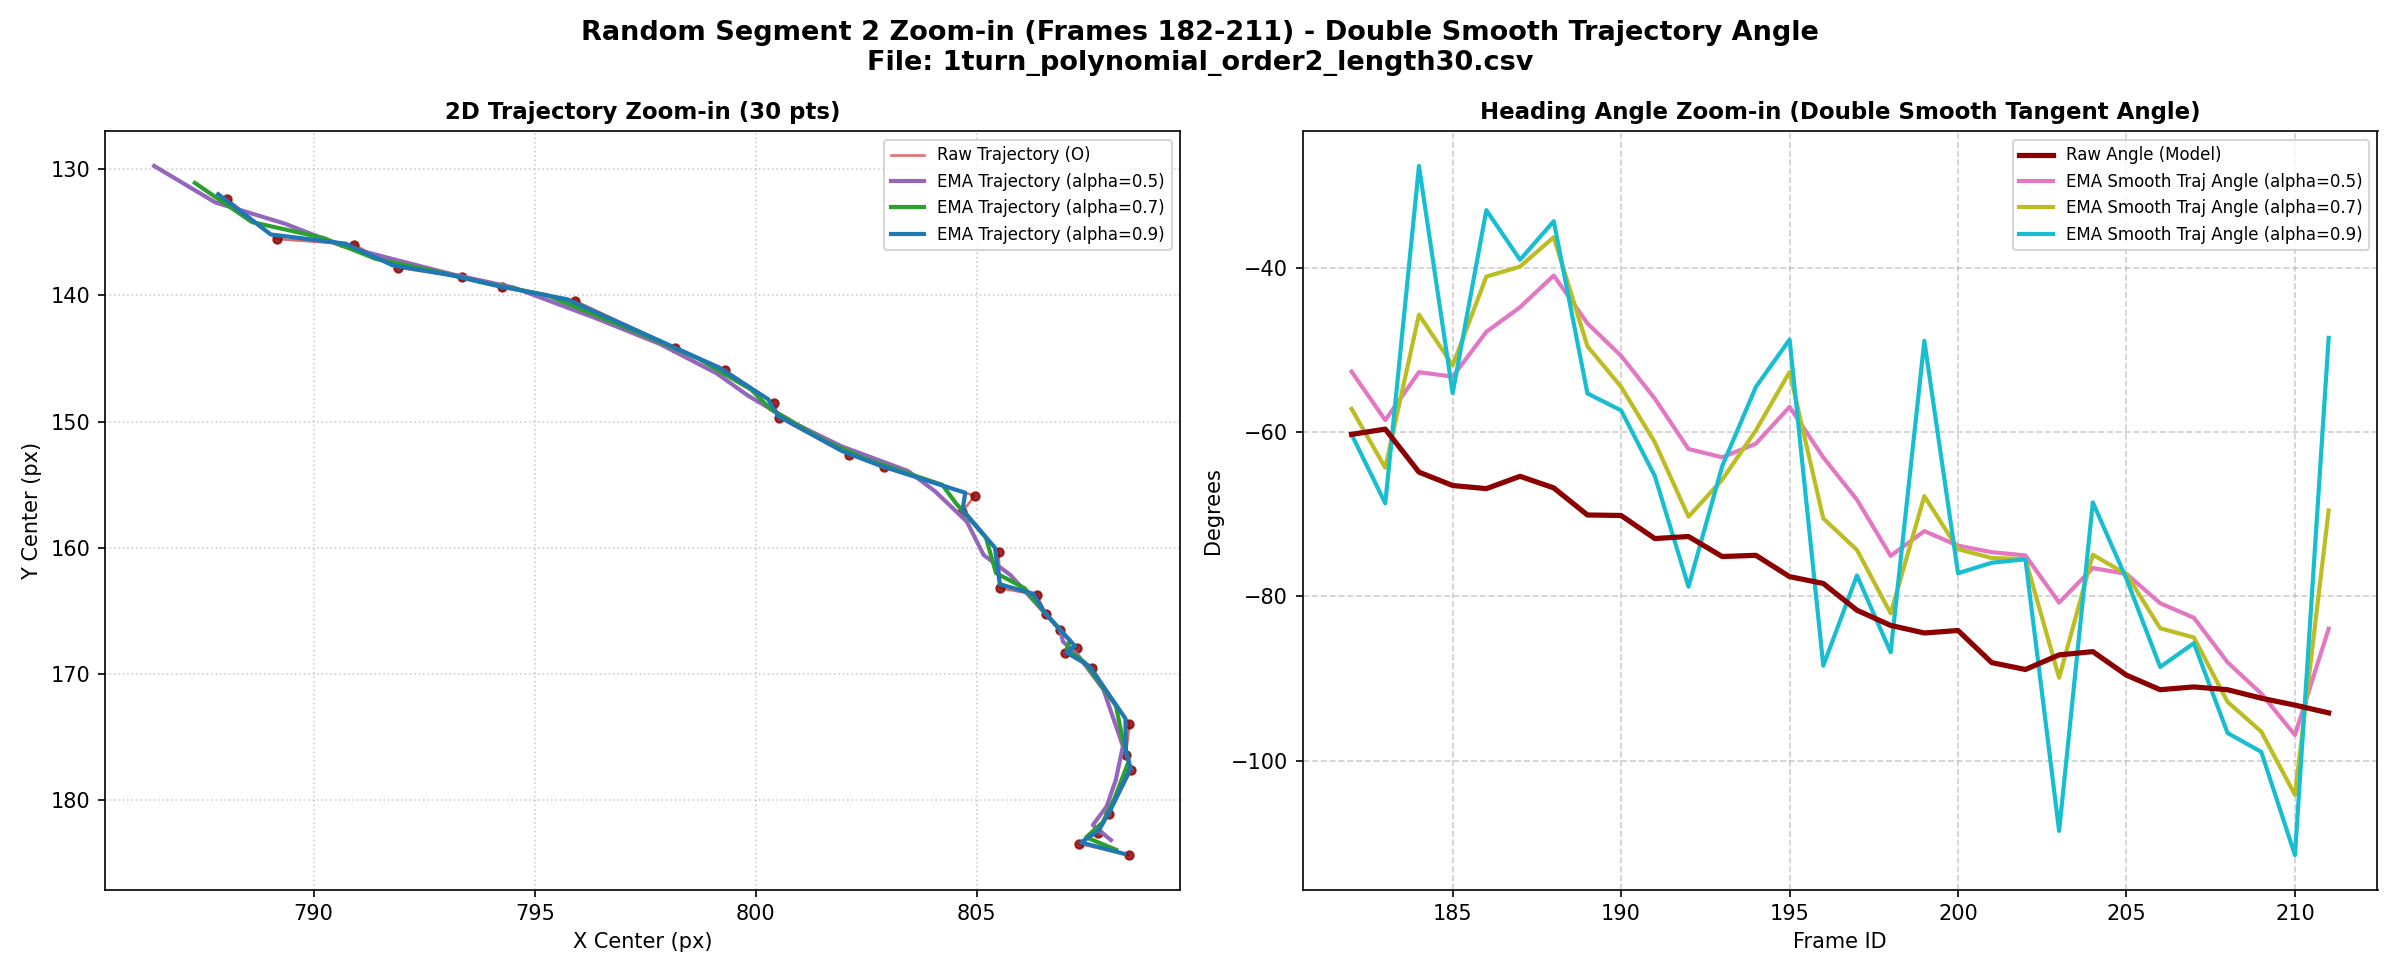
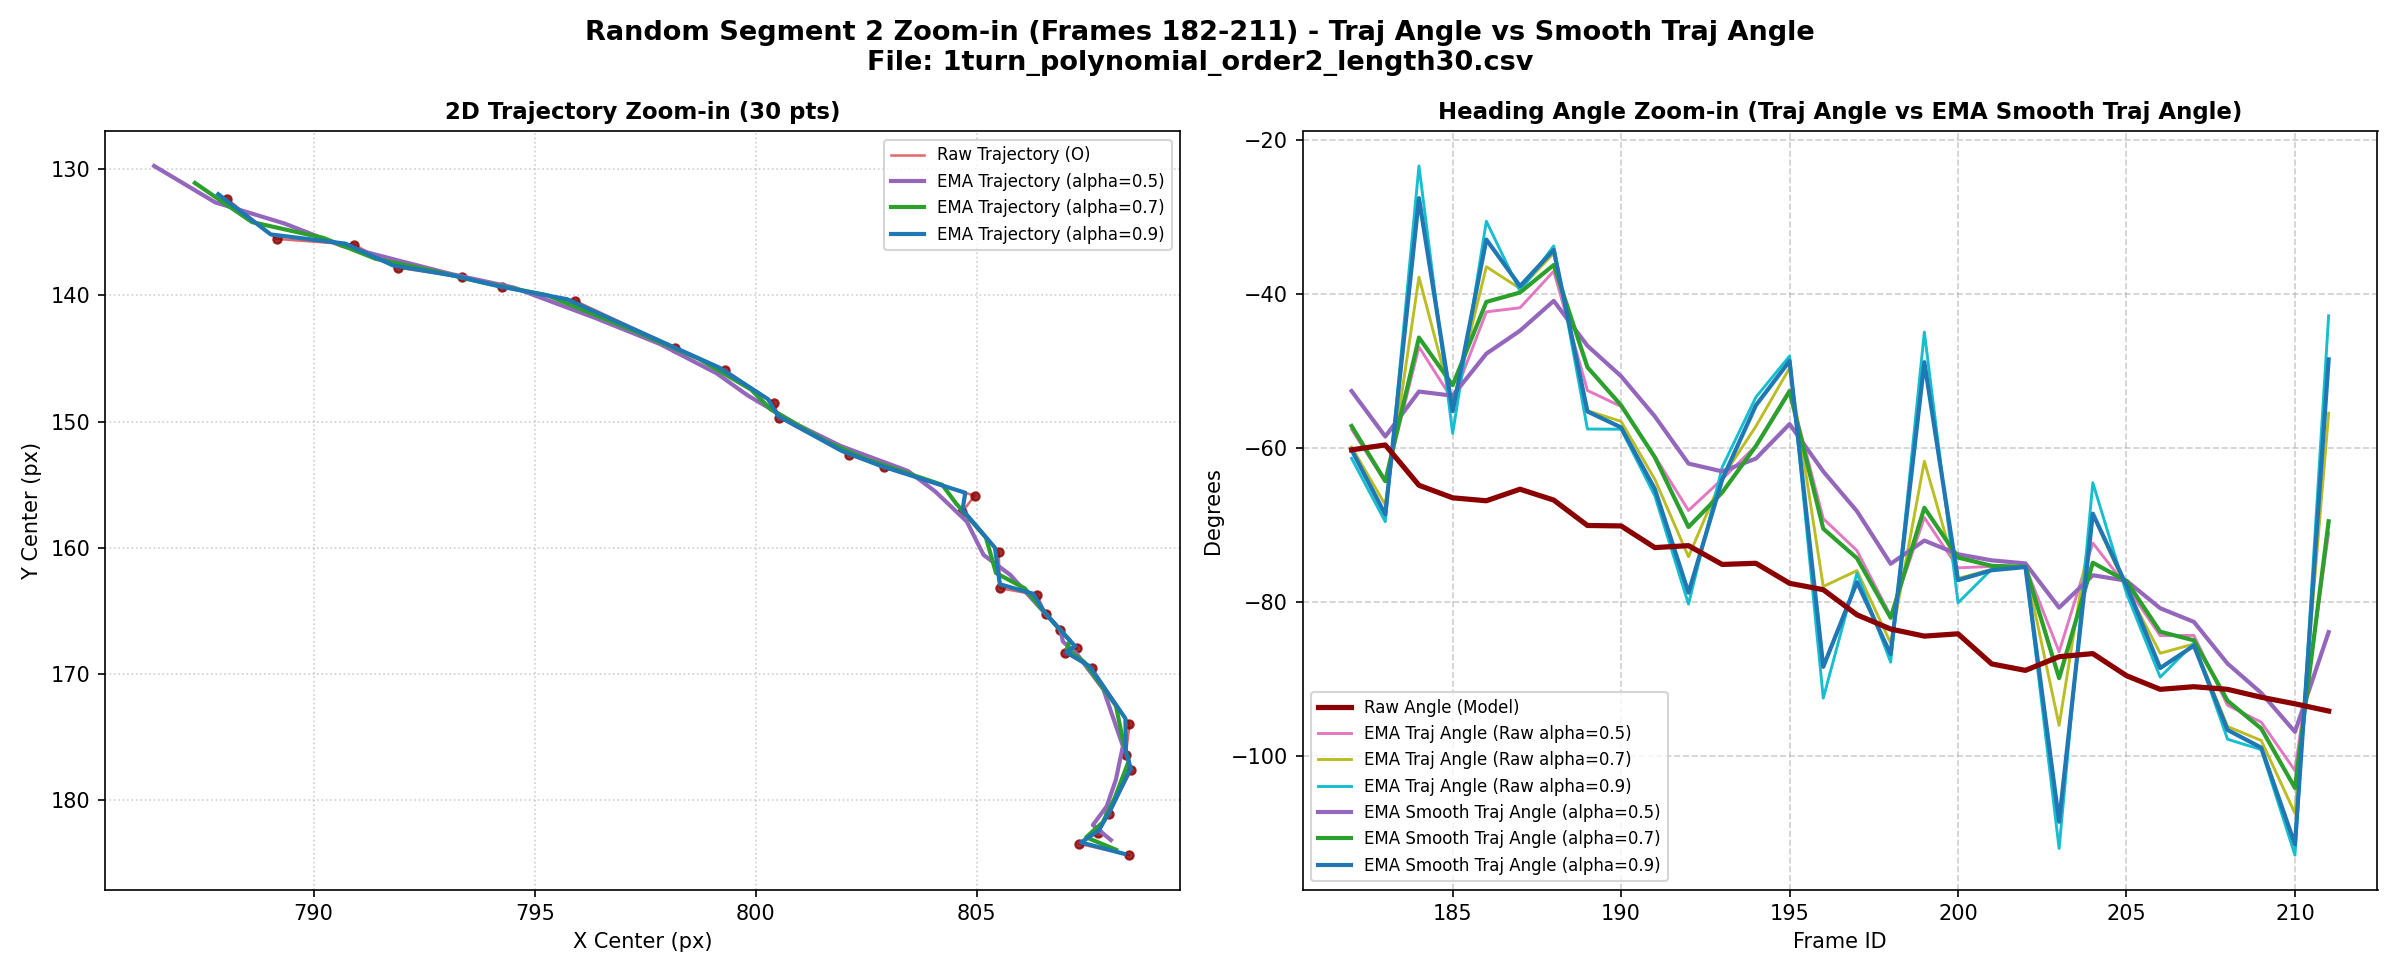
update Section 4 to show both EMA Traj Angle before and after 2nd pass smooth

diff --git a/260808/tools/plot_ema_clean.py b/260808/tools/plot_ema_clean.py
@@ -89,9 +89,9 @@ def run_clean_ema_experiments(csv_file: str, seg_length: int = 30, num_segments:
         0.9: '#1f77b4'  # Blue
     }
     traj_angle_colors = {
-        0.5: '#e377c2', # Pink/Magenta
-        0.7: '#bcbd22', # Olive/Yellow-Green
-        0.9: '#17becf'  # Cyan
+        0.5: '#e377c2', # Pink/Magenta (1st pass traj angle)
+        0.7: '#bcbd22', # Olive (1st pass traj angle)
+        0.9: '#17becf'  # Cyan (1st pass traj angle)
     }
 
     # 1. Compute EMA streams for alphas 0.5, 0.7, 0.9
@@ -134,7 +134,6 @@ def run_clean_ema_experiments(csv_file: str, seg_length: int = 30, num_segments:
     # ─────────────────────────────────────────────────────────────────────────
     # SECTION 3 IMAGES: SELECTIVE EMA (Raw + EMA Vector Angle + EMA Traj Angle)
     # ─────────────────────────────────────────────────────────────────────────
-    # 2D Trajectory
     fig_traj, ax_traj = plt.subplots(figsize=(10, 8), dpi=150)
     ax_traj.plot(valid_df['x_center'], valid_df['y_center'], color='#d62728', linewidth=1.2, linestyle='-', alpha=0.6, label='Raw Trajectory (O)', zorder=1)
     ax_traj.scatter(valid_df['x_center'], valid_df['y_center'], color='#8b0000', s=12, marker='o', alpha=0.8, zorder=2)
@@ -178,9 +177,8 @@ def run_clean_ema_experiments(csv_file: str, seg_length: int = 30, num_segments:
     plt.close(fig_time)
 
     # ─────────────────────────────────────────────────────────────────────────
-    # SECTION 4 IMAGES: DOUBLE SMOOTH (Hide Vector Angle, Show EMA Smooth Traj Angle)
+    # SECTION 4 IMAGES: DOUBLE SMOOTH (Hidden EMA Vector Angle; Showing Both EMA Traj Angle & EMA Smooth Traj Angle)
     # ─────────────────────────────────────────────────────────────────────────
-    # 2D Trajectory for Section 4
     fig_traj4, ax_traj4 = plt.subplots(figsize=(10, 8), dpi=150)
     ax_traj4.plot(valid_df['x_center'], valid_df['y_center'], color='#d62728', linewidth=1.2, linestyle='-', alpha=0.6, label='Raw Trajectory (O)', zorder=1)
     ax_traj4.scatter(valid_df['x_center'], valid_df['y_center'], color='#8b0000', s=12, marker='o', alpha=0.8, zorder=2)
@@ -199,16 +197,21 @@ def run_clean_ema_experiments(csv_file: str, seg_length: int = 30, num_segments:
     fig_traj4.savefig(out_traj4_img, dpi=150)
     plt.close(fig_traj4)
 
-    # Time Series for Section 4 (HIDDEN EMA Vector Angle, SHOWING EMA Smooth Traj Angle)
+    # Time Series for Section 4 (Plotting Raw Angle, 1st pass EMA Traj Angle, AND 2nd pass EMA Smooth Traj Angle)
     fig_time4, ax_ang4 = plt.subplots(figsize=(13, 7), dpi=150)
     ax_ang4.plot(valid_df['frame_id'], raw_unwrapped, color='#8b0000', linewidth=2.5, linestyle='-', alpha=1.0, label='Raw Angle (Model)', zorder=10)
 
-    # Show 2nd Pass EMA Smooth Trajectory Tangent Angle
+    # 1st Pass Tangent Angle from EMA Trajectory (Before 2nd pass smooth)
+    for a in alphas:
+        ema_traj_ang_unwrapped = align_phase(np.degrees(np.unwrap(np.radians(valid_df[f'ema_traj_angle_a{a}']))) , raw_unwrapped)
+        ax_ang4.plot(valid_df['frame_id'], ema_traj_ang_unwrapped, color=traj_angle_colors[a], linewidth=1.4, linestyle='-', label=f'EMA Traj Angle (Raw alpha={a})')
+
+    # 2nd Pass EMA Smooth Trajectory Tangent Angle
     for a in alphas:
         ema_smooth_traj_unwrapped = align_phase(np.degrees(np.unwrap(np.radians(valid_df[f'ema_smooth_traj_angle_a{a}']))) , raw_unwrapped)
-        ax_ang4.plot(valid_df['frame_id'], ema_smooth_traj_unwrapped, color=traj_angle_colors[a], linewidth=1.8, linestyle='-', label=f'EMA Smooth Traj Angle (alpha={a})')
+        ax_ang4.plot(valid_df['frame_id'], ema_smooth_traj_unwrapped, color=alpha_colors[a], linewidth=2.0, linestyle='-', label=f'EMA Smooth Traj Angle (alpha={a})')
 
-    ax_ang4.set_title(f'Heading Angle Time-Series - Raw Angle vs EMA Smooth Traj Angle (alpha = 0.5, 0.7, 0.9)\nFile: {csv_path.name}', fontsize=14, fontweight='bold')
+    ax_ang4.set_title(f'Heading Angle Time-Series - Raw vs EMA Traj Angle vs 2nd Pass Smooth Traj Angle\nFile: {csv_path.name}', fontsize=14, fontweight='bold')
     ax_ang4.set_xlabel('Frame ID')
     ax_ang4.set_ylabel('Degrees (Unwrapped)')
     ax_ang4.grid(True, linestyle='--', alpha=0.6)
@@ -278,9 +281,9 @@ def run_clean_ema_experiments(csv_file: str, seg_length: int = 30, num_segments:
             fig_seg.savefig(out_seg_img, dpi=150)
             plt.close(fig_seg)
 
-            # Segment plot for Section 4 (HIDDEN Vector Angle, SHOWING 2nd pass EMA Smooth Traj Angle)
+            # Segment plot for Section 4 (SHOWING BOTH 1st Pass EMA Traj Angle AND 2nd Pass EMA Smooth Traj Angle)
             fig_seg4, (ax_st4, ax_sa4) = plt.subplots(1, 2, figsize=(16, 6.5), dpi=150)
-            fig_seg4.suptitle(f'Random Segment {idx_seg+1} Zoom-in (Frames {frame_start}-{frame_end}) - Double Smooth Trajectory Angle\nFile: {csv_path.name}', fontsize=13, fontweight='bold')
+            fig_seg4.suptitle(f'Random Segment {idx_seg+1} Zoom-in (Frames {frame_start}-{frame_end}) - Traj Angle vs Smooth Traj Angle\nFile: {csv_path.name}', fontsize=13, fontweight='bold')
 
             ax_st4.plot(seg['x_center'], seg['y_center'], color='#d62728', linewidth=1.2, linestyle='-', alpha=0.7, label='Raw Trajectory (O)', zorder=1)
             ax_st4.scatter(seg['x_center'], seg['y_center'], color='#8b0000', s=16, marker='o', alpha=0.8, zorder=2)
@@ -295,11 +298,18 @@ def run_clean_ema_experiments(csv_file: str, seg_length: int = 30, num_segments:
             ax_st4.legend(loc='best', fontsize=8)
 
             ax_sa4.plot(seg['frame_id'], seg_raw_unwrapped, color='#8b0000', linewidth=2.5, linestyle='-', alpha=1.0, label='Raw Angle (Model)', zorder=10)
+
+            # 1st Pass Tangent Angle from EMA Trajectory (Before 2nd pass smooth)
+            for a in alphas:
+                seg_ema_traj_unwrapped = align_phase(np.degrees(np.unwrap(np.radians(seg[f'ema_traj_angle_a{a}']))) , seg_raw_unwrapped)
+                ax_sa4.plot(seg['frame_id'], seg_ema_traj_unwrapped, color=traj_angle_colors[a], linewidth=1.4, linestyle='-', label=f'EMA Traj Angle (Raw alpha={a})')
+
+            # 2nd Pass EMA Smooth Trajectory Tangent Angle
             for a in alphas:
                 seg_ema_smooth_traj_unwrapped = align_phase(np.degrees(np.unwrap(np.radians(seg[f'ema_smooth_traj_angle_a{a}']))) , seg_raw_unwrapped)
-                ax_sa4.plot(seg['frame_id'], seg_ema_smooth_traj_unwrapped, color=traj_angle_colors[a], linewidth=2.0, linestyle='-', label=f'EMA Smooth Traj Angle (alpha={a})')
+                ax_sa4.plot(seg['frame_id'], seg_ema_smooth_traj_unwrapped, color=alpha_colors[a], linewidth=2.0, linestyle='-', label=f'EMA Smooth Traj Angle (alpha={a})')
 
-            ax_sa4.set_title(f'Heading Angle Zoom-in (Double Smooth Tangent Angle)', fontsize=11, fontweight='bold')
+            ax_sa4.set_title(f'Heading Angle Zoom-in (Traj Angle vs EMA Smooth Traj Angle)', fontsize=11, fontweight='bold')
             ax_sa4.set_xlabel('Frame ID')
             ax_sa4.set_ylabel('Degrees')
             ax_sa4.grid(True, linestyle='--', alpha=0.6)

diff --git a/260808/Readme2.md b/260808/Readme2.md
@@ -4,8 +4,8 @@
 - Vẽ lại đồ thị góc và quỹ đạo: loại bỏ các đường smooth 1st, smooth 2nd và các đường EMA alpha = 0.1, 0.3.
 - Chỉ giữ lại dữ liệu gốc **Raw** và các đường **EMA với hệ số alpha = 0.5, 0.7, 0.9**.
 - Bổ sung đường biểu đồ góc tiếp tuyến được tính trực tiếp từ tọa độ mượt EMA của quỹ đạo.
-- **Tạm thời ẩn đường mượt `EMA Vector Angle` của raw_angle.**
-- **Thực hiện làm mượt EMA Lần 2 trên đường góc tiếp tuyến tính từ các đường mượt EMA quỹ đạo với hệ số alpha đồng bộ tương ứng.**
+- Tạm thời ẩn đường mượt `EMA Angle` của raw_angle.
+- Thực hiện làm mượt EMA Lần 2 trên đường góc tiếp tuyến tính từ các đường mượt EMA quỹ đạo với hệ số alpha đồng bộ tương ứng (giữ nguyên đường góc tiếp tuyến trước khi mượt Lần 2 để so sánh).
 
 ---
 
@@ -102,23 +102,15 @@ python tools/plot_ema_clean.py benchmark/3turn_polynomial_order2_length30.csv --
 
 ## 4. Thử nghiệm Smooth EMA Lần 2 trên Góc Tiếp tuyến (Tạm thời Ẩn EMA Vector Angle)
 
-### 4.1. Đặc điểm Thử nghiệm
-- **Tạm thời ẩn đường mượt góc `EMA Vector Angle`** (đường mượt trực tiếp từ raw_angle của model).
-- **Giữ đường `Raw Angle (Model)`** (đường màu đỏ đậm `linewidth=2.5`).
-- **Thực hiện Smooth EMA Lần 2 trên Góc Tiếp tuyến Quỹ đạo (`EMA Smooth Traj Angle`):**
-  - **Lần 1:** Làm mượt tọa độ (x, y) bằng EMA với hệ số alpha = 0.5, 0.7, 0.9 thu được tọa độ mượt (Sx_t, Sy_t).
-  - **Tính góc tiếp tuyến:** `traj_angle = atan2(-(Sy_t - Sy_{t-1}), Sx_t - Sx_{t-1})`.
-  - **Lần 2:** Áp dụng tiếp EMA làm mượt trên chuỗi góc tiếp tuyến này theo phương pháp Vector hóa (sin, cos) với đúng **hệ số alpha đồng bộ tương ứng** (0.5, 0.7, 0.9).
+### 4.1. Biểu đồ Smooth EMA Lần 2 trên Góc Tiếp tuyến Quỹ đạo
 
----
-
-### 4.2. Biểu đồ Thử nghiệm (Section 4)
+Tạm thời ẩn đường mượt góc `EMA Angle` trực tiếp từ raw_angle của model. So sánh đường **Raw Angle (Model)** với **Góc tiếp tuyến trước khi mượt Lần 2 (`EMA Traj Angle`)** và **Góc tiếp tuyến sau khi mượt Lần 2 (`EMA Smooth Traj Angle`)** đối với các hệ số alpha = 0.5, 0.7, 0.9.
 
 #### a) Leanbot chạy 3 vòng (`3turn`)
 ![3turn Double Smooth Trajectory](benchmark/3turn_ema_double_smooth_2d_trajectory.png)
 ![3turn Double Smooth Time Series](benchmark/3turn_ema_double_smooth_time_series.png)
 
-##### Các đoạn Zoom-in 30 điểm ngẫu nhiên (Raw Angle vs EMA Smooth Traj Angle):
+##### Các đoạn Zoom-in 30 điểm ngẫu nhiên (Raw Angle vs EMA Traj Angle vs EMA Smooth Traj Angle):
 ![3turn Double Smooth Seg 1](benchmark/3turn_ema_double_smooth_seg1.png)
 ![3turn Double Smooth Seg 2](benchmark/3turn_ema_double_smooth_seg2.png)
 ![3turn Double Smooth Seg 3](benchmark/3turn_ema_double_smooth_seg3.png)
@@ -129,7 +121,7 @@ python tools/plot_ema_clean.py benchmark/3turn_polynomial_order2_length30.csv --
 ![2turn Double Smooth Trajectory](benchmark/2turn_ema_double_smooth_2d_trajectory.png)
 ![2turn Double Smooth Time Series](benchmark/2turn_ema_double_smooth_time_series.png)
 
-##### Các đoạn Zoom-in 30 điểm ngẫu nhiên (Raw Angle vs EMA Smooth Traj Angle):
+##### Các đoạn Zoom-in 30 điểm ngẫu nhiên (Raw Angle vs EMA Traj Angle vs EMA Smooth Traj Angle):
 ![2turn Double Smooth Seg 1](benchmark/2turn_ema_double_smooth_seg1.png)
 ![2turn Double Smooth Seg 2](benchmark/2turn_ema_double_smooth_seg2.png)
 ![2turn Double Smooth Seg 3](benchmark/2turn_ema_double_smooth_seg3.png)
@@ -140,7 +132,7 @@ python tools/plot_ema_clean.py benchmark/3turn_polynomial_order2_length30.csv --
 ![1turn Double Smooth Trajectory](benchmark/1turn_ema_double_smooth_2d_trajectory.png)
 ![1turn Double Smooth Time Series](benchmark/1turn_ema_double_smooth_time_series.png)
 
-##### Các đoạn Zoom-in 30 điểm ngẫu nhiên (Raw Angle vs EMA Smooth Traj Angle):
+##### Các đoạn Zoom-in 30 điểm ngẫu nhiên (Raw Angle vs EMA Traj Angle vs EMA Smooth Traj Angle):
 ![1turn Double Smooth Seg 1](benchmark/1turn_ema_double_smooth_seg1.png)
 ![1turn Double Smooth Seg 2](benchmark/1turn_ema_double_smooth_seg2.png)
 ![1turn Double Smooth Seg 3](benchmark/1turn_ema_double_smooth_seg3.png)
